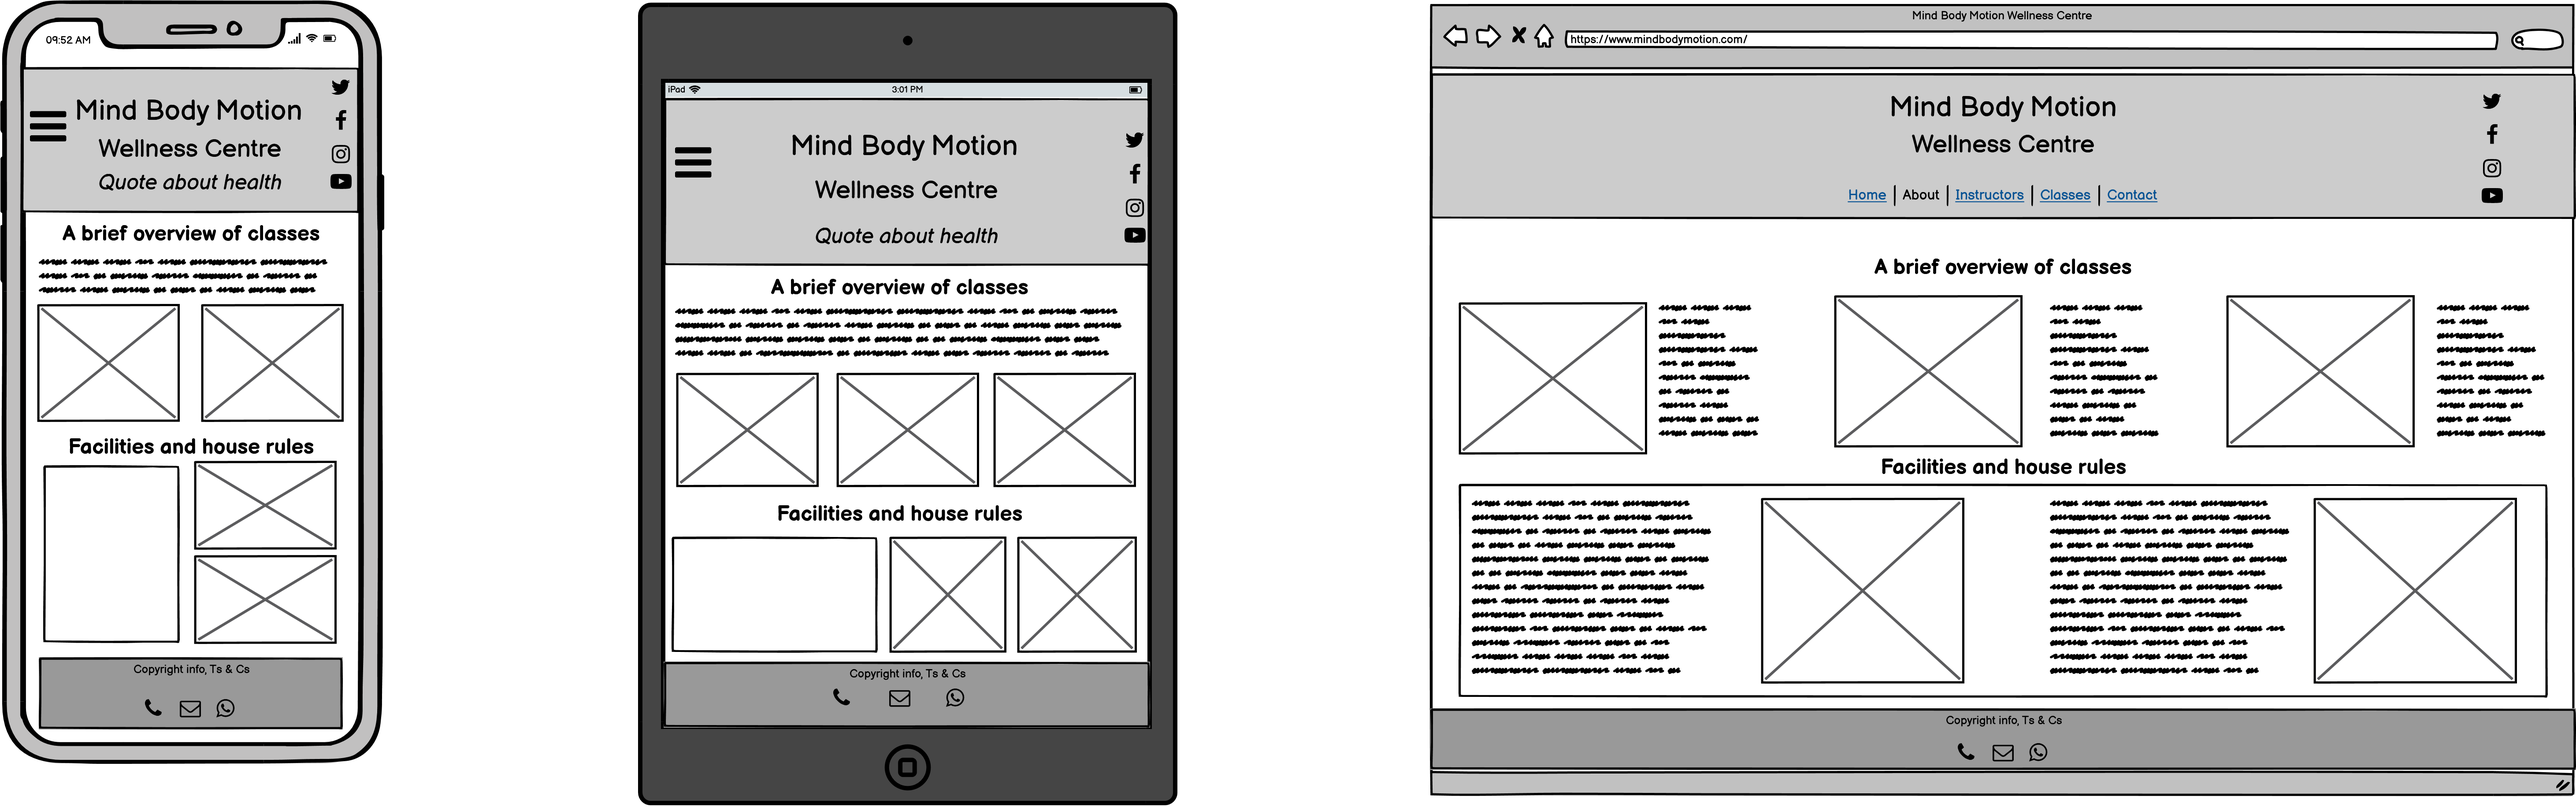
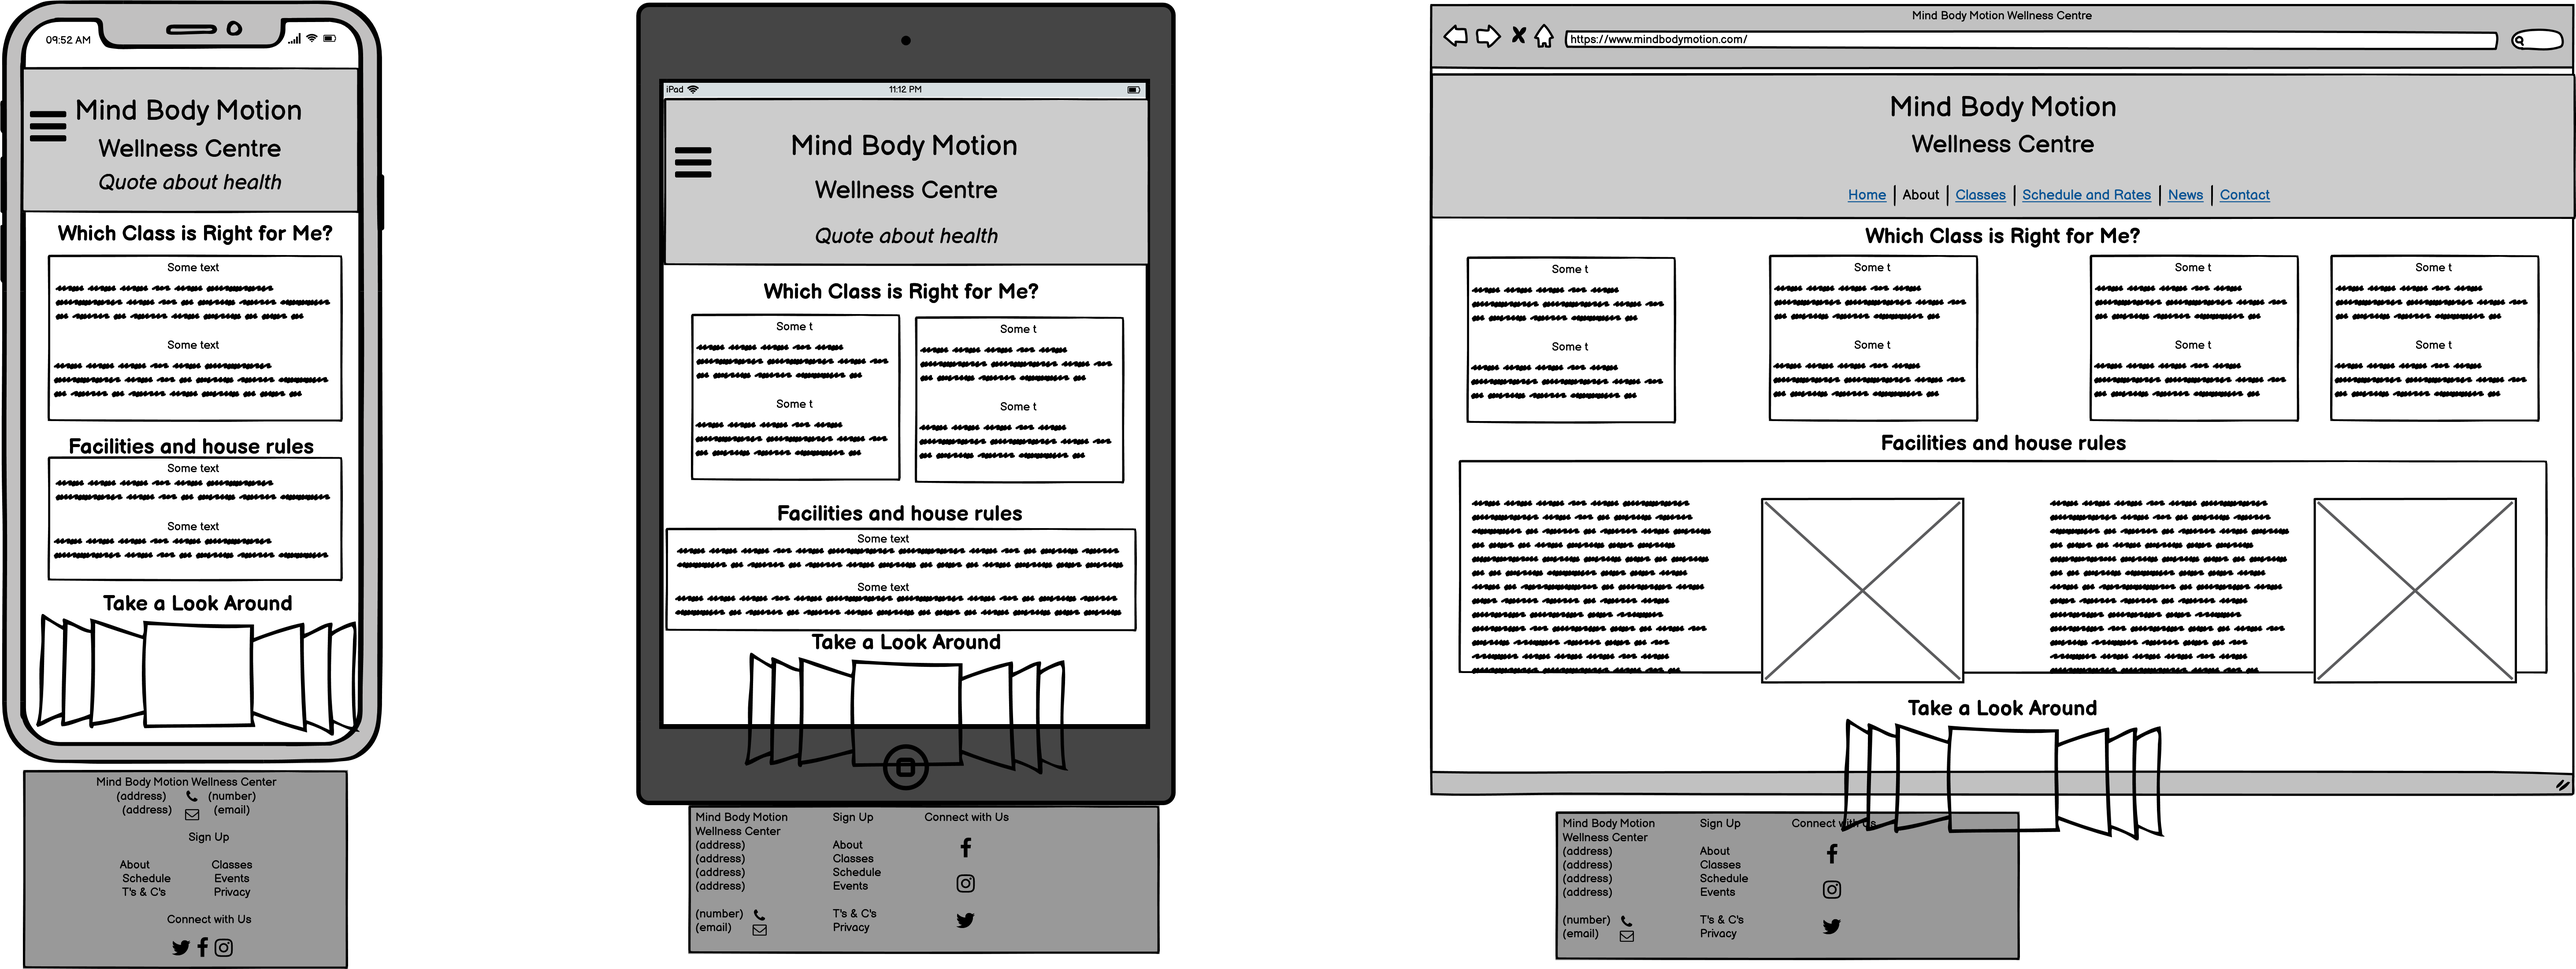
Updating Readme and final wireframes

diff --git a/README.md b/README.md
@@ -27,14 +27,9 @@ The website provides users with information about the process for joining classe
   * [Home page](assets/wireframes/home.png)
   * [About Us page](assets/wireframes/about.png)
   * [Meet the Instructors page](assets/wireframes/instructors.png)
-  * [Classes and Timetable page](assets/wireframes/classes.png)
+  * [Classes page](assets/wireframes/classes.png)
+  * [Schedule and Rates page](assets/wireframes/schedule_and_rates.png)
   * [Contact Us page](assets/wireframes/contact.png)
-
-* Revised wireframe mockups
-  * [About page](assets/wireframes/about_v2.png) replaces [Meet the Instructors page](assets/wireframes/instructors.png)
-  * [Classes page](assets/wireframes/classes_v2.png) replaces [Classes and Timetable page](assets/wireframes/classes.png)
-  * [Schedules and Rates page](assets/wireframes/schedule_and_rates.png) replaces [Classes and Timetable page]
-  * [News page](assets/wireframes/news.png) - new addition
 
 ## Features
 
